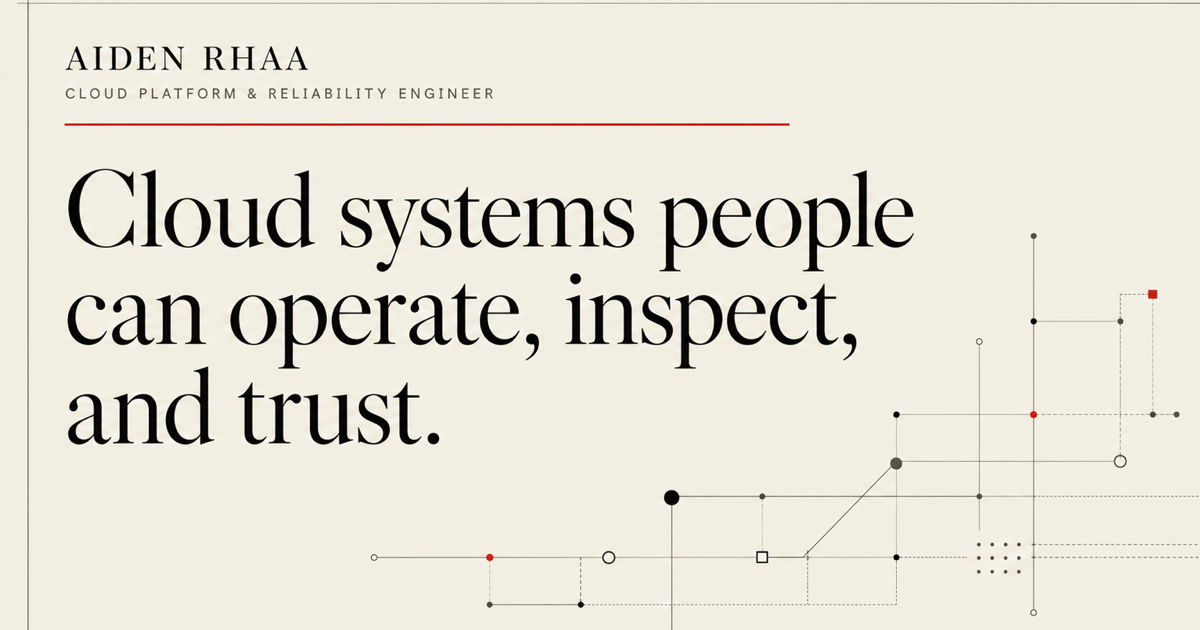
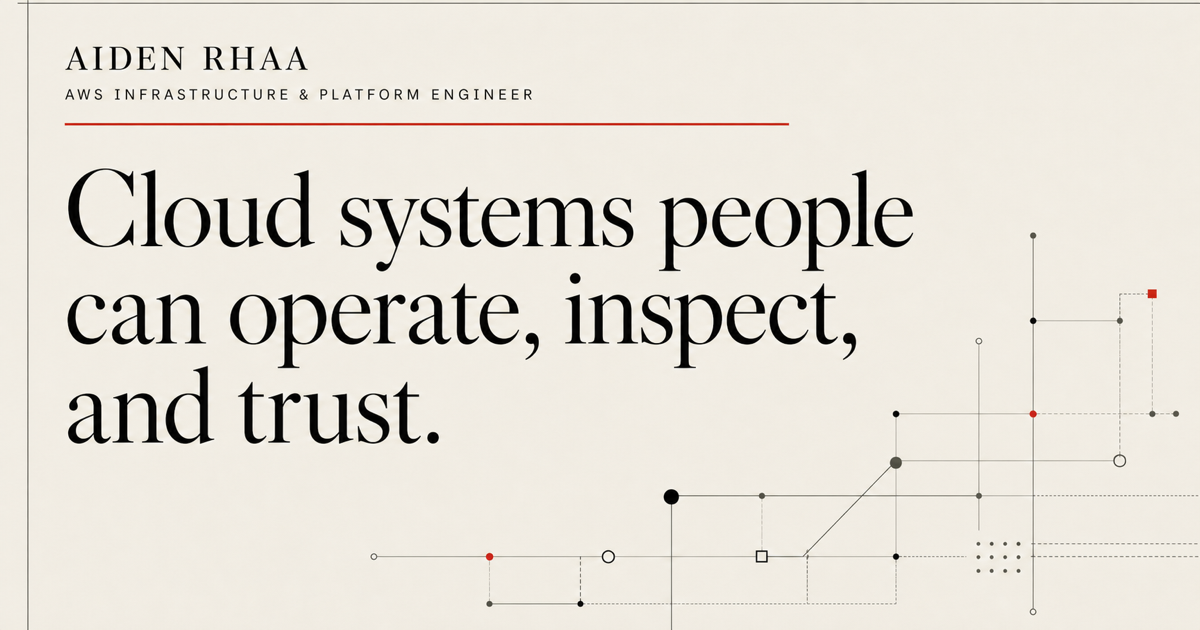
refine AWS infrastructure positioning

diff --git a/components/home-page.tsx b/components/home-page.tsx
@@ -45,24 +45,38 @@ export function HomePage() {
       <JsonLd value={homeStructuredData()} />
 
       <section className="hero grid" data-section="hero" aria-labelledby="hero-title">
-        <p className="eyebrow hero__folio">Independent systems practice / Atlanta</p>
+        <p className="eyebrow hero__folio">Product-minded cloud engineering / Atlanta</p>
         <div className="hero__heading">
+          <p className="hero__role">AWS Infrastructure &amp; Platform Engineer</p>
           <h1 id="hero-title">Cloud systems people can operate, inspect, and trust.</h1>
         </div>
         <div className="hero__dek">
           <p>
-            I turn customer and operational workflows into reusable AWS systems—designed
-            to deploy cleanly, surface failure, recover predictably, and hand off well.
+            I design and build AWS infrastructure, delivery pipelines, and platform
+            workflows with Terraform, GitHub Actions, containers, observability, and
+            explicit recovery paths.
           </p>
+          <p className="hero__handoff">
+            The work starts with real operating needs and ends with systems another team
+            can inspect, run, and own.
+          </p>
+          <ul className="hero__capabilities" aria-label="Core cloud engineering capabilities">
+            <li>AWS</li>
+            <li>Terraform</li>
+            <li>CI/CD</li>
+            <li>ECS &amp; Serverless</li>
+            <li>DevSecOps</li>
+            <li>Observability</li>
+          </ul>
           <a className="text-link" href="#work">
-            Read the project index <span aria-hidden="true">↓</span>
+            Review the cloud systems <span aria-hidden="true">↓</span>
           </a>
         </div>
       </section>
 
       <section id="work" className="project-index" aria-labelledby="work-title">
         <SectionHeading
-          folio="01 / Selected work"
+          folio="01 / Independent cloud reference systems"
           title="Three systems, three explicit operating boundaries."
           titleId="work-title"
           copy="The index stays qualitative. Open a case for measured evidence, tradeoffs, and the artifacts behind each claim."

diff --git a/app/globals.css b/app/globals.css
@@ -301,22 +301,36 @@ main > section,
 }
 
 .hero__folio {
-  grid-column: 1 / span 3;
+  grid-column: 1 / span 2;
+  grid-row: 1;
   align-self: start;
   margin-top: 0.8rem;
 }
 
 .hero__heading {
-  grid-column: 3 / -1;
+  grid-column: 3 / span 6;
+  grid-row: 1;
+}
+
+.hero__role {
+  margin-bottom: 1.35rem;
+  color: var(--signal);
+  font-family: var(--mono);
+  font-size: clamp(0.72rem, 1vw, 0.88rem);
+  font-weight: 700;
+  letter-spacing: 0.1em;
+  text-transform: uppercase;
 }
 
 .hero__heading h1 {
   max-width: 11ch;
-  margin-bottom: clamp(3rem, 6vw, 6rem);
+  margin-bottom: 0;
 }
 
 .hero__dek {
-  grid-column: 7 / span 5;
+  grid-column: 9 / -1;
+  grid-row: 1;
+  align-self: end;
 }
 
 .hero__dek > p {
@@ -325,6 +339,32 @@ main > section,
   font-family: var(--serif);
   font-size: clamp(1.45rem, 2.4vw, 2.2rem);
   line-height: 1.18;
+}
+
+.hero__dek > .hero__handoff {
+  max-width: 31rem;
+  margin-top: -0.35rem;
+  font-family: var(--sans);
+  font-size: 0.98rem;
+  line-height: 1.55;
+}
+
+.hero__capabilities {
+  display: flex;
+  flex-wrap: wrap;
+  gap: 0.45rem 1rem;
+  margin: 0 0 1.35rem;
+  padding: 1rem 0 0;
+  border-top: 1px solid var(--rule);
+  list-style: none;
+}
+
+.hero__capabilities li {
+  color: var(--muted-ink);
+  font-family: var(--mono);
+  font-size: 0.68rem;
+  letter-spacing: 0.06em;
+  text-transform: uppercase;
 }
 
 .project-index,
@@ -954,6 +994,12 @@ main > section,
 }
 
 @media (max-width: 64rem) {
+  .hero__folio,
+  .hero__heading,
+  .hero__dek {
+    grid-row: auto;
+  }
+
   .grid,
   .site-header__inner,
   .section-heading,

diff --git a/app/layout.tsx b/app/layout.tsx
@@ -2,9 +2,9 @@ import type { Metadata } from "next";
 import { siteOrigin } from "@/lib/site-url";
 import "./globals.css";
 
-const title = "Aiden Rhaa — Cloud Platform & Reliability Engineer";
+const title = "Aiden Rhaa — AWS Infrastructure & Platform Engineer";
 const description =
-  "Cloud platform and reliability engineering portfolio focused on inspectable AWS systems, operating evidence, recovery, and handoff.";
+  "Product-minded AWS infrastructure and platform engineering portfolio focused on Terraform, delivery automation, observability, recovery, and operational handoff.";
 
 export const metadata: Metadata = {
   metadataBase: new URL(siteOrigin),

diff --git a/app/page.tsx b/app/page.tsx
@@ -2,8 +2,8 @@ import type { Metadata } from "next";
 import { HomePage } from "@/components/home-page";
 
 const description =
-  "Aiden Rhaa builds inspectable AWS systems with explicit operating boundaries, evidence, recovery paths, and handoff artifacts.";
-const title = "Aiden Rhaa — Cloud Platform & Reliability Engineer";
+  "Aiden Rhaa designs and builds product-minded AWS infrastructure and platform systems with Terraform, CI/CD, observability, recovery paths, and explicit operating boundaries.";
+const title = "Aiden Rhaa — AWS Infrastructure & Platform Engineer";
 
 export const dynamic = "force-static";
 

diff --git a/content/profile.ts b/content/profile.ts
@@ -1,6 +1,6 @@
 export const profile = {
   name: "Aiden Rhaa",
-  role: "Cloud Platform & Reliability Engineer",
+  role: "AWS Infrastructure & Platform Engineer",
   email: "aidenrhaacloud@gmail.com",
   github: "https://github.com/manynames3",
   linkedin: "https://linkedin.com/in/aidenrhaa",
